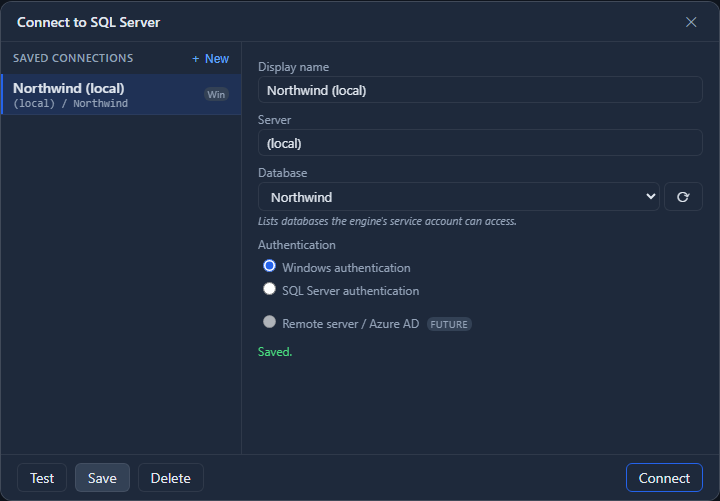
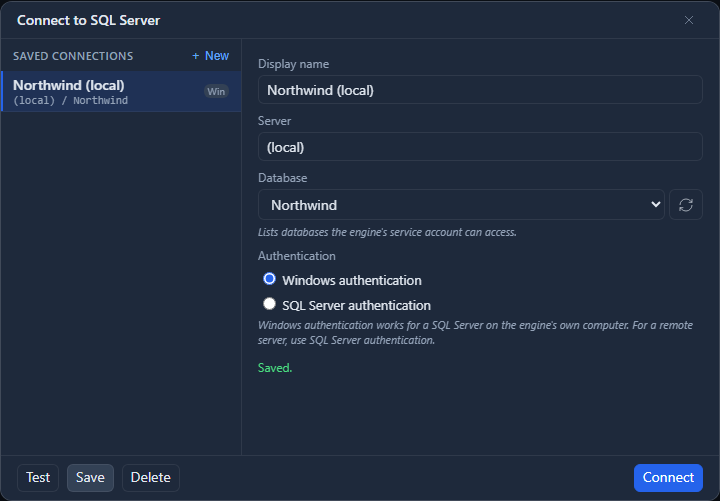
docs(site): refresh deployed Northwind workspace screenshots
Allow SiteScreenshotTour to use AKML_DEPLOYED_WEB_URL so captures target the
actual IIS binding instead of assuming port 80. Refresh the query-results and
connection-dialog images from the approved Web/Engine 1.26.1010.2224 deployment.

Validation: deployed screenshot tour 2/2 passed at localhost:59416. Visually
inspected both images: Northwind sample data, 50 result rows, and matching Web
and Engine version labels. Preserve existing SSMS screenshots; this commit does
not deploy the separate marketing site.

diff --git a/tests/AkmlSql.Web.E2E.Tests/SiteScreenshotTour.cs b/tests/AkmlSql.Web.E2E.Tests/SiteScreenshotTour.cs
@@ -25,8 +25,8 @@ namespace AkmlSql.Web.E2E.Tests;
 /// </summary>
 public sealed class SiteScreenshotTour(ITestOutputHelper output)
 {
-    /// <summary>The deployed web edition (IIS site "AkmlSqlWeb", bound to port 80 with no host header).</summary>
-    private const string WebUrl = "http://localhost/";
+    /// <summary>The deployed web edition; set AKML_DEPLOYED_WEB_URL to the IIS site's actual binding.</summary>
+    private static string WebUrl => Environment.GetEnvironmentVariable("AKML_DEPLOYED_WEB_URL") ?? "http://localhost/";
 
     /// <summary>Matches the dimensions the site's img tags already declare, so no layout shifts.</summary>
     private const int ShotWidth = 1920;
